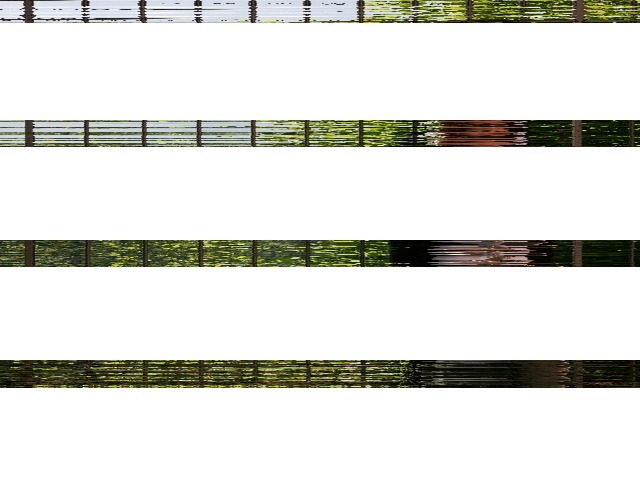
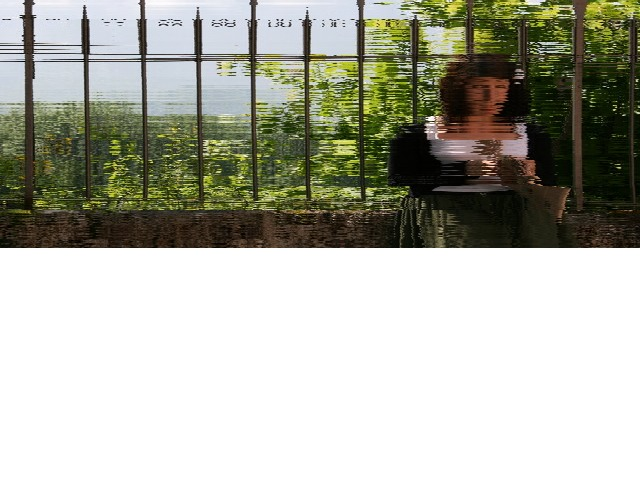
half of pic gets decoded...crappy...and losing half of the lines o.O

diff --git a/nagravision.rb b/nagravision.rb
@@ -88,48 +88,82 @@ post '/upload' do
     comp[:best_old_ind] = -1
   end
 
-  alrdy_incl = Array.new
- 
+  @alrdy_incl = Array.new
+  err_count = 0
+
   for block_count in 0...@numberOfBlocks.to_i
+#  for block_count in 0...1
     this_block_min = block_count * block_size
     this_block_max = (block_count + 1) * block_size
 
+    processed_line = this_block_min
+
+    #for i in this_block_min...this_block_max
     for i in this_block_min..this_block_max
       @comp_arr[i] = Hash.new
       @comp_arr[i][:value] = 100
-      @line = @im.export_pixels(0, i, @im.columns, 1, "RGB")
+      @comp_arr[i][:line] = processed_line
+      @line = @im.export_pixels(0, 0, @im.columns, 1, "RGB")
       @im1.import_pixels(0,0,@im.columns, 1, "RGB", @line)
-
+  
+      @alrdy_incl << processed_line
+      puts "processing and including #{processed_line}"
+      current_block = processed_line.to_i / block_size
+      #puts "the current block is #{current_block}"
+      # find best line within block
       for j in this_block_min..this_block_max
-        if(i == j)
+        #puts "proc is #{processed_line} and j is #{j}"
+        if(processed_line == j)
           next
-        end
+        else
+          @other_line = @im.export_pixels(0, j, @im.columns, 1, "RGB")
+          @im2.import_pixels(0,0,@im.columns, 1, "RGB", @other_line)
 
-        @other_line = @im.export_pixels(0, j, @im.columns, 1, "RGB")
-        @im2.import_pixels(0,0,@im.columns, 1, "RGB", @other_line)
-
-        diff = @im1.difference(@im2)
-      
-        if(diff[1] < @comp_arr[i][:value] && !alrdy_incl.include?(j)) 
-          alrdy_incl << j
-          @comp_arr[i][:value] = diff[1]
-          @comp_arr[i][:best_line] = @other_line
-          @comp_arr[i][:best_old_ind] = j
+          diff = @im1.difference(@im2)
+          
+          if(diff[1] < @comp_arr[i][:value] && !@alrdy_incl.include?(j))
+            @alrdy_incl.delete(@comp_arr[i][:best_old_ind])
+            #puts "removing #{@comp_arr[i][:best_old_ind]}"
+            #puts "including #{j}"
+            @alrdy_incl << j
+            @comp_arr[i][:value] = diff[1]
+            @comp_arr[i][:best_old_ind] = j
+          end
         end
       end
-      puts "#{i} in #{@comp_arr[i][:best_old_ind]} with #{@comp_arr[i][:value]}"
+      if !@comp_arr[i][:best_old_ind]
+       #puts "no new val"
+      else
+        #puts "okey"
+      end
+      processed_line = @comp_arr[i][:best_old_ind]
+      #puts "#{i} in #{@comp_arr[i][:best_old_ind]} with #{@comp_arr[i][:value]}"
     end
   end
-
+  #@alrdy_incl.sort!
   ext_counter = 0
-  for i in 0...@decoded_img.rows
-    #puts "Importing #{ext_counter}"
-    #puts @comp_arr[ext_counter][:best_old_ind]
-  
-    if(@comp_arr[i][:best_old_ind])
-      @decoded_img.import_pixels(0, i, @decoded_img.columns, 1, "RGB", @comp_arr[i][:best_line])
+  for i in 0..(@comp_arr.size - 1)
+    if(!@comp_arr[i])
+      puts "empty"
+      break
+    elsif !@comp_arr[i][:best_old_ind]
+      puts "empty line"
+      break
+    elsif !ext_counter
+      break
     end
-    #ext_counter = @comp_arr[ext_counter][:best_old_ind]
+    #if(ext_counter && @comp_arr[ext_counter][:best_old_ind])
+      tmp_line = @im.export_pixels(0, ext_counter, @im.columns, 1, "RGB")
+      @decoded_img.import_pixels(0, i, @decoded_img.columns, 1, "RGB", tmp_line)
+
+      ext_counter = @comp_arr[ext_counter][:best_old_ind]
+      #puts "ext counter is #{ext_counter}"
+      #ext_counter = @comp_arr[ext_counter][:best_old_ind]
+    #else
+      #while(!ext_counter)
+     # ext_counter = @comp_arr[]
+    #end
+    
   end
 
   #puts @comp_arr.select {|c| c[:best_old_ind] == 999 }
